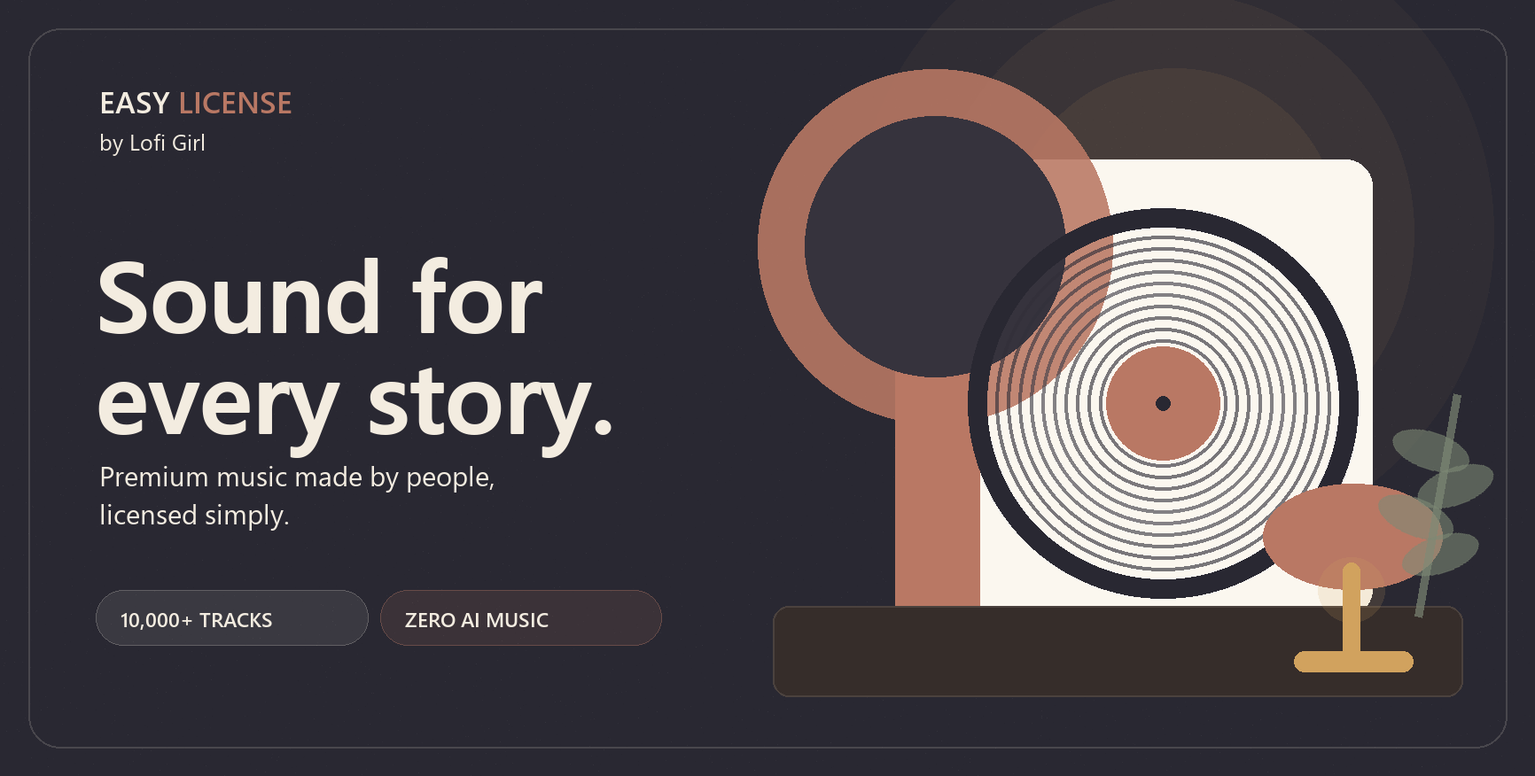
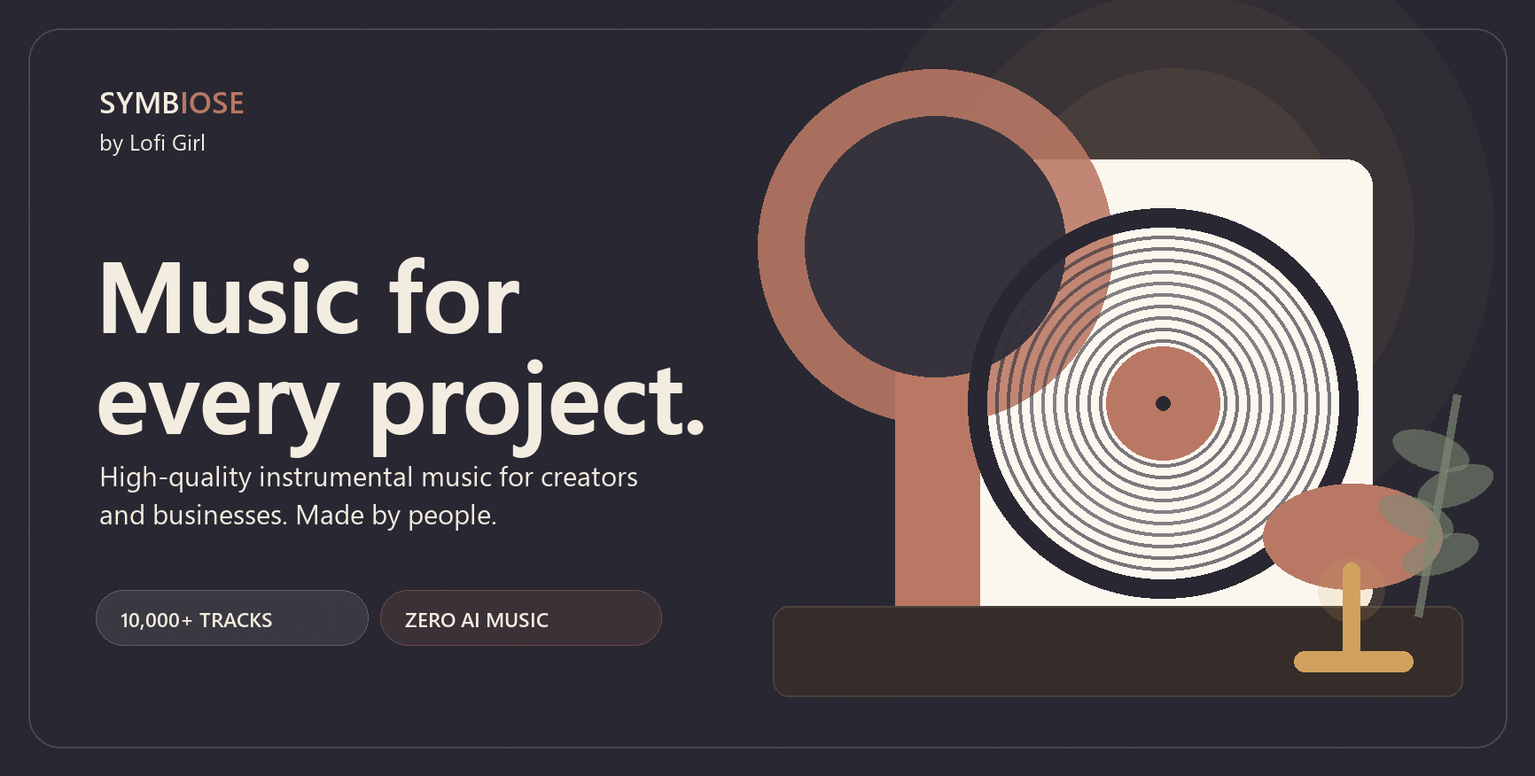
feat: rebrand Easy License as Symbiose

Changed region(s): [[0.0624, 0.4623, 0.4677, 0.6781], [0.0624, 0.3082, 0.343, 0.4315], [0.0624, 0.0925, 0.1871, 0.1541]]

diff --git a/app/sync/page.tsx b/app/sync/page.tsx
@@ -2,8 +2,8 @@ import type { Metadata } from "next";
 import { LeadForm } from "../components/LeadForm";
 import { PublicShell } from "../components/PublicShell";
 
-export const metadata: Metadata = { title: "Easy License for Business — Sync & custom music", description: "License existing music or commission original music for your production." };
+export const metadata: Metadata = { title: "Commercial Sync & Custom Music", description: "License existing music or commission original music for your production with Symbiose." };
 
 export default function SyncPage() {
-  return <PublicShell><section className="page-hero section-shell sync-page-hero"><div className="page-hero-copy"><span className="eyebrow sync-eyebrow"><span>EL/02</span> Brands · Productions · Agencies</span><h1>One brief.<br /><em>Two music paths.</em></h1><p>Clear an existing track or commission original music from real artists. One licensing team helps shape the right scope.</p><div className="hero-proof"><span><i>✓</i> Existing catalogue</span><span><i>✓</i> Original composition</span><span><i>✓</i> Rights support</span></div></div><div className="sync-hero-card"><div className="sync-brief-top"><span>PROJECT BRIEF</span><i>01 / 04</i></div><strong>What are you making?</strong><div className="brief-options"><span className="is-active">Advertising</span><span>Film / series</span><span>Game</span><span>Podcast</span><span>Event</span><span>Other</span></div><div className="brief-progress"><i /></div><small>Prototype of the guided briefing flow</small></div></section><section className="section section-shell sync-path-section"><div className="section-heading centered"><span className="section-kicker">CHOOSE THE RIGHT PATH</span><h2>Start with the project,<br />not the catalogue.</h2></div><div className="sync-path-grid"><article className="existing-path"><span className="path-number">01</span><div className="path-icon">CAT</div><span className="availability available sync"><i /> Sync licensing</span><h3>License existing music</h3><p>For a specific track, mood or artist already in the eligible catalogue.</p><ul><li><i>✓</i> Creative search and shortlist</li><li><i>✓</i> Rights scope by media, territory and term</li><li><i>✓</i> Agreement and delivery in one project</li></ul><div className="path-example"><small>GOOD FOR</small><span>Campaigns</span><span>Films</span><span>Games</span><span>Trailers</span></div></article><article className="custom-path"><span className="path-number">02</span><div className="path-icon">NEW</div><span className="availability available custom"><i /> Original music</span><h3>Commission custom music</h3><p>For a sound that must be unmistakably yours, made by human artists.</p><ul><li><i>✓</i> Original composition and production</li><li><i>✓</i> Sonic identity and modular assets</li><li><i>✓</i> Creative direction through final delivery</li></ul><div className="path-example"><small>GOOD FOR</small><span>Brand identity</span><span>Podcasts</span><span>Events</span><span>Products</span></div></article></div></section><section className="section section-shell sync-process"><div className="split-heading"><div><span className="section-kicker">A CLEAR COMMERCIAL WORKFLOW</span><h2>Creative enough for music.<br />Structured enough for rights.</h2></div><p>A brief or shortlist never grants rights. The licence starts only after scope approval, signature and payment.</p></div><div className="process-line"><article><span>1</span><h3>Brief</h3><p>Project, mood, media, markets, timing and budget.</p></article><i /><article><span>2</span><h3>Music path</h3><p>Existing catalogue search or original creation route.</p></article><i /><article><span>3</span><h3>Scope & quote</h3><p>Rights, term, territory, exclusivity and deliverables.</p></article><i /><article><span>4</span><h3>Agreement</h3><p>Signed scope, payment and final licensed assets.</p></article></div></section><section className="section section-shell brief-section" id="brief"><div className="brief-copy"><span className="section-kicker">START A PROJECT</span><h2>Tell us what<br />you&apos;re making.</h2><p>You do not need to know the right licence yet. Give us the context and the team can qualify the path.</p><div className="brief-contact-notes"><span><i>1</i><p><strong>We review the brief</strong><small>Creative and licensing fit</small></p></span><span><i>2</i><p><strong>We clarify the scope</strong><small>Media, markets and timing</small></p></span><span><i>3</i><p><strong>You get a next step</strong><small>Shortlist, creative route or quote</small></p></span></div></div><div className="form-panel"><div className="form-panel-head"><span>COMMERCIAL MUSIC BRIEF</span><small>Usually reviewed within 2 business days</small></div><LeadForm type="sync" /></div></section></PublicShell>;
+  return <PublicShell><section className="page-hero section-shell sync-page-hero"><div className="page-hero-copy"><span className="eyebrow sync-eyebrow"><span>SY/02</span> Brands · Productions · Agencies</span><h1>One brief.<br /><em>Two music paths.</em></h1><p>Clear an existing track or commission original music from real artists. One licensing team helps shape the right scope.</p><div className="hero-proof"><span><i>✓</i> Existing catalogue</span><span><i>✓</i> Original composition</span><span><i>✓</i> Rights support</span></div></div><div className="sync-hero-card"><div className="sync-brief-top"><span>PROJECT BRIEF</span><i>01 / 04</i></div><strong>What are you making?</strong><div className="brief-options"><span className="is-active">Advertising</span><span>Film / series</span><span>Game</span><span>Podcast</span><span>Event</span><span>Other</span></div><div className="brief-progress"><i /></div><small>Prototype of the guided briefing flow</small></div></section><section className="section section-shell sync-path-section"><div className="section-heading centered"><span className="section-kicker">CHOOSE THE RIGHT PATH</span><h2>Start with the project,<br />not the catalogue.</h2></div><div className="sync-path-grid"><article className="existing-path"><span className="path-number">01</span><div className="path-icon">CAT</div><span className="availability available sync"><i /> Sync licensing</span><h3>License existing music</h3><p>For a specific track, mood or artist already in the eligible catalogue.</p><ul><li><i>✓</i> Creative search and shortlist</li><li><i>✓</i> Rights scope by media, territory and term</li><li><i>✓</i> Agreement and delivery in one project</li></ul><div className="path-example"><small>GOOD FOR</small><span>Campaigns</span><span>Films</span><span>Games</span><span>Trailers</span></div></article><article className="custom-path"><span className="path-number">02</span><div className="path-icon">NEW</div><span className="availability available custom"><i /> Original music</span><h3>Commission custom music</h3><p>For a sound that must be unmistakably yours, made by human artists.</p><ul><li><i>✓</i> Original composition and production</li><li><i>✓</i> Sonic identity and modular assets</li><li><i>✓</i> Creative direction through final delivery</li></ul><div className="path-example"><small>GOOD FOR</small><span>Brand identity</span><span>Podcasts</span><span>Events</span><span>Products</span></div></article></div></section><section className="section section-shell sync-process"><div className="split-heading"><div><span className="section-kicker">A CLEAR COMMERCIAL WORKFLOW</span><h2>Creative enough for music.<br />Structured enough for rights.</h2></div><p>A brief or shortlist never grants rights. The licence starts only after scope approval, signature and payment.</p></div><div className="process-line"><article><span>1</span><h3>Brief</h3><p>Project, mood, media, markets, timing and budget.</p></article><i /><article><span>2</span><h3>Music path</h3><p>Existing catalogue search or original creation route.</p></article><i /><article><span>3</span><h3>Scope & quote</h3><p>Rights, term, territory, exclusivity and deliverables.</p></article><i /><article><span>4</span><h3>Agreement</h3><p>Signed scope, payment and final licensed assets.</p></article></div></section><section className="section section-shell brief-section" id="brief"><div className="brief-copy"><span className="section-kicker">START A PROJECT</span><h2>Tell us what<br />you&apos;re making.</h2><p>You do not need to know the right licence yet. Give us the context and the team can qualify the path.</p><div className="brief-contact-notes"><span><i>1</i><p><strong>We review the brief</strong><small>Creative and licensing fit</small></p></span><span><i>2</i><p><strong>We clarify the scope</strong><small>Media, markets and timing</small></p></span><span><i>3</i><p><strong>You get a next step</strong><small>Shortlist, creative route or quote</small></p></span></div></div><div className="form-panel"><div className="form-panel-head"><span>COMMERCIAL MUSIC BRIEF</span><small>Usually reviewed within 2 business days</small></div><LeadForm type="sync" /></div></section></PublicShell>;
 }

diff --git a/app/components/CreatorWorkspace.tsx b/app/components/CreatorWorkspace.tsx
@@ -61,7 +61,7 @@ function PlaylistCard({ playlist, onOpen }: { playlist: LofiGirlPlaylist; onOpen
 
 function ProductNavigation() {
   return (
-    <div className="music-product-nav" aria-label="Easy License products">
+    <div className="music-product-nav" aria-label="Symbiose products">
       <button className="is-active" type="button"><span>♫</span><strong>Music</strong></button>
       <button type="button" aria-disabled="true"><span>⌁</span><strong>Sound effects</strong><small>Coming soon</small></button>
       <button type="button" aria-disabled="true"><span>◌</span><strong>Voices</strong><small>Coming soon</small></button>
@@ -174,7 +174,7 @@ export function CreatorWorkspace() {
 
       <main className="music-app-main">
         <header className="music-app-topbar">
-          <div><span>Easy License</span><h1>{view === "music" ? "Music library" : navItems.find((item) => item.id === view)?.label}</h1></div>
+          <div><span>Symbiose</span><h1>{view === "music" ? "Music library" : navItems.find((item) => item.id === view)?.label}</h1></div>
           <label className="music-global-search">
             <span aria-hidden="true">⌕</span>
             <input value={query} onChange={(event) => { setQuery(event.target.value); setActiveUse(null); setActivePlaylistId(null); setView("music"); }} placeholder="Search tracks, artists, moods or genres" />
@@ -204,7 +204,7 @@ export function CreatorWorkspace() {
 
             <section className="music-track-browser" aria-labelledby="tracks-title">
               <div className="music-track-browser-head">
-                <div><span>EASY LICENSE CATALOGUE PREVIEW</span><h3 id="tracks-title">{activePlaylist?.title ?? (activeUse ? listeningDirections.find((item) => item.use === activeUse)?.label : "All music")}</h3><p>{visibleTracks.length} matching licensable tracks in this preview</p></div>
+                <div><span>SYMBIOSE CATALOGUE PREVIEW</span><h3 id="tracks-title">{activePlaylist?.title ?? (activeUse ? listeningDirections.find((item) => item.use === activeUse)?.label : "All music")}</h3><p>{visibleTracks.length} matching licensable tracks in this preview</p></div>
                 <div className="music-filter-row">
                   <label><span>Genre</span><select value={genre} onChange={(event) => setGenre(event.target.value)}>{genres.map((item) => <option key={item}>{item}</option>)}</select></label>
                   <label><span>Mood</span><select value={mood} onChange={(event) => setMood(event.target.value)}>{moods.map((item) => <option key={item}>{item}</option>)}</select></label>
@@ -250,7 +250,7 @@ export function CreatorWorkspace() {
       {setupOpen && (
         <div className="music-setup-backdrop" role="dialog" aria-modal="true" aria-labelledby="music-setup-title">
           <div className="music-setup-panel">
-            <div className="music-setup-intro"><span>FIRST LISTEN</span><h2 id="music-setup-title">Tune the library<br />to your work.</h2><p>Two quick choices help Easy License put more useful playlists first. You can change this later.</p><button type="button" onClick={closeSetup}>Skip for now</button></div>
+            <div className="music-setup-intro"><span>FIRST LISTEN</span><h2 id="music-setup-title">Tune the library<br />to your work.</h2><p>Two quick choices help Symbiose put more useful playlists first. You can change this later.</p><button type="button" onClick={closeSetup}>Skip for now</button></div>
             <div className="music-setup-form">
               <section><span>01 · YOUR MAIN ROLE</span><h3>What are you creating as?</h3><div className="music-role-grid">{roles.map((role) => <button className={selectedRole === role ? "is-selected" : ""} type="button" onClick={() => setSelectedRole(role)} key={role}>{role}<i>{selectedRole === role ? "✓" : ""}</i></button>)}</div></section>
               <section><span>02 · WHERE YOU PUBLISH</span><h3>Choose every destination that matters.</h3><div className="music-destination-grid">{destinations.map((destination) => <button className={selectedDestinations.has(destination) ? "is-selected" : ""} type="button" onClick={() => toggleDestination(destination)} key={destination}>{destination}<i>{selectedDestinations.has(destination) ? "✓" : "+"}</i></button>)}</div></section>
@@ -264,7 +264,7 @@ export function CreatorWorkspace() {
 }
 
 function PlaylistLibrary({ onOpen }: { onOpen: (playlist: LofiGirlPlaylist) => void }) {
-  return <div className="music-secondary-view"><header><span>LOFI GIRL LISTENING WORLDS</span><h2>Playlists</h2><p>Eight distinct directions drawn from the public Lofi Girl profile, translated into an Easy License starting point.</p></header><div className="music-secondary-playlists">{lofiGirlPlaylists.map((playlist) => <PlaylistCard playlist={playlist} onOpen={onOpen} key={playlist.id} />)}</div></div>;
+  return <div className="music-secondary-view"><header><span>LOFI GIRL LISTENING WORLDS</span><h2>Playlists</h2><p>Eight distinct directions drawn from the public Lofi Girl profile, translated into a Symbiose starting point.</p></header><div className="music-secondary-playlists">{lofiGirlPlaylists.map((playlist) => <PlaylistCard playlist={playlist} onOpen={onOpen} key={playlist.id} />)}</div></div>;
 }
 
 function DownloadsLibrary({ onOpen }: { onOpen: (track: Track) => void }) {
@@ -276,5 +276,5 @@ function ChannelsView() {
 }
 
 function LicencesView() {
-  return <div className="music-secondary-view"><header><span>ACCOUNT</span><h2>Licences</h2><p>Keep each track, channel and proof of licence in one place.</p></header><section className="music-account-card"><span className="music-account-platform">◇</span><div><strong>Easy License · Creator</strong><small>EL-DEMO-2026-0001 · Active since 03 Aug 2026</small></div><span className="music-account-status">● Active</span><button type="button">View licence</button></section></div>;
+  return <div className="music-secondary-view"><header><span>ACCOUNT</span><h2>Licences</h2><p>Keep each track, channel and proof of licence in one place.</p></header><section className="music-account-card"><span className="music-account-platform">◇</span><div><strong>Symbiose · Creator</strong><small>SY-DEMO-2026-0001 · Active since 03 Aug 2026</small></div><span className="music-account-status">● Active</span><button type="button">View licence</button></section></div>;
 }

diff --git a/app/page.tsx b/app/page.tsx
@@ -67,7 +67,7 @@ export default function Home() {
           <img className="home26-hero-image" src="/images/unsplash/hero-producer.jpg" alt="Music producer working at a recording console" />
           <span className="home26-hero-wash" aria-hidden="true" />
           <div className="home26-hero-copy" data-reveal="left">
-            <p className="home26-eyebrow">Powered by Lofi Girl · Human-made music licensing</p>
+            <p className="home26-eyebrow">Symbiose · Powered by Lofi Girl</p>
             <h1 data-reveal="hero-title">Human-made music for videos, streams and commercial projects.</h1>
             <p className="home26-hero-lede">
               Browse more than 10,000 instrumental and background tracks created by real artists, with no generative AI. Find a sound that fits the story, the stream or the project you are building.
@@ -82,7 +82,7 @@ export default function Home() {
           <p className="home26-hero-credit">A catalogue made by artists, for the people making the work.</p>
         </section>
 
-        <section className="home26-facts" aria-label="Easy License catalogue facts" data-reveal="group">
+        <section className="home26-facts" aria-label="Symbiose catalogue facts" data-reveal="group">
           <div><strong>10,000+</strong><span>instrumental and background tracks</span></div>
           <div><strong>1,000+</strong><span>artists represented worldwide</span></div>
           <div><strong>0</strong><span>AI-generated tracks accepted</span></div>
@@ -126,7 +126,7 @@ export default function Home() {
             <h2 id="home26-artists-title">More than 1,000 artists contribute to the catalogue.</h2>
             <p>Every track is written and produced by artists. Generative AI music is not accepted, artists remain clearly credited, and licensing income is paid directly and fairly.</p>
           </div>
-          <div className="home26-artist-grid" data-reveal="group" aria-label="A selection of Easy License artists and studio sessions">
+          <div className="home26-artist-grid" data-reveal="group" aria-label="A selection of Symbiose artists and studio sessions">
             {artists.map((artist) => (
               <article key={artist.name}>
                 <img src={artist.image} alt={`Portrait of ${artist.name}`} />
@@ -145,9 +145,9 @@ export default function Home() {
           <div className="home26-faq-list" data-reveal="group">
             <details open><summary>Can I listen before creating an account?<span>+</span></summary><p>Yes. You can browse the catalogue and listen to the available previews before choosing a creator plan or requesting a business licence.</p></details>
             <details><summary>Which platforms can I connect?<span>+</span></summary><p>Creator plans are intended for eligible YouTube, Twitch, podcast and social profiles. The exact number of connected profiles depends on the plan.</p></details>
-            <details><summary>Does a Creator plan cover paid advertising?<span>+</span></summary><p>No. Paid media, brand campaigns, client productions, films and games require Easy License for Businesses.</p></details>
-            <details><summary>Is any catalogue music generated with AI?<span>+</span></summary><p>No. Easy License does not accept generative AI music into the eligible catalogue. Every track is created by artists.</p></details>
-            <details><summary>How are artists paid?<span>+</span></summary><p>Artists are credited and receive direct, fair payment when their music is licensed through Easy License.</p></details>
+            <details><summary>Does a Creator plan cover paid advertising?<span>+</span></summary><p>No. Paid media, brand campaigns, client productions, films and games require Symbiose for Businesses.</p></details>
+            <details><summary>Is any catalogue music generated with AI?<span>+</span></summary><p>No. Symbiose does not accept generative AI music into the eligible catalogue. Every track is created by artists.</p></details>
+            <details><summary>How are artists paid?<span>+</span></summary><p>Artists are credited and receive direct, fair payment when their music is licensed through Symbiose.</p></details>
             <details><summary>What happens to content after I cancel?<span>+</span></summary><p>The final licence terms will explain how content published during an active subscription remains covered and which new uses require an active plan.</p></details>
             <details><summary>Can a business commission an exclusive track?<span>+</span></summary><p>Yes. Custom Commission covers original music created for a brief. Exclusivity, media, territory, term and delivery are agreed for the project.</p></details>
           </div>

diff --git a/app/creators/page.tsx b/app/creators/page.tsx
@@ -5,7 +5,7 @@ import { creatorPlatforms, PlatformLogo } from "../components/PlatformLogo";
 import { PublicShell } from "../components/PublicShell";
 
 export const metadata: Metadata = {
-  title: "Easy License for Creators",
+  title: "For Creators",
   description: "Professionally curated, human-made music for YouTube, livestreams, podcasts and social content.",
 };
 
@@ -22,9 +22,9 @@ export default function CreatorsPage() {
       <div className="offer-landing creators-landing">
         <section className="offer-hero offer-hero-creators">
           <div className="offer-hero-copy" data-reveal="left">
-            <p className="offer-kicker"><span>EL / CREATORS</span> Powered by Lofi Girl</p>
+            <p className="offer-kicker"><span>SYMBIOSE / CREATORS</span> Powered by Lofi Girl</p>
             <h1 data-reveal="hero-title">Music that fits<br /><em>the way you publish.</em></h1>
-            <p>Find instrumental music for the edit, the stream or the opening of a new episode. Easy License is built around your own YouTube, Twitch, podcast and social channels, with the relevant licence record kept alongside every download.</p>
+            <p>Find instrumental music for the edit, the stream or the opening of a new episode. Symbiose is built around your own YouTube, Twitch, podcast and social channels, with the relevant licence record kept alongside every download.</p>
             <div className="offer-actions">
               <Link className="offer-button offer-button-light" href="/catalog">Explore the music <span>↗</span></Link>
               <a className="offer-inline-link offer-inline-light" href="#creator-plans">Discover pricing <span>↓</span></a>
@@ -97,11 +97,11 @@ export default function CreatorsPage() {
         </section>
 
         <section className="offer-human offer-human-creators" aria-labelledby="creator-human-title">
-          <figure data-reveal="scale"><img src="/artists/charlee.jpg" alt="Charlee, an Easy License artist, playing guitar" /></figure>
+          <figure data-reveal="scale"><img src="/artists/charlee.jpg" alt="Charlee, a Symbiose artist, playing guitar" /></figure>
           <div data-reveal="right">
             <p className="offer-kicker"><span>06</span> Artists and payments</p>
             <h2 id="creator-human-title">More than 1,000 artists<br />contribute to the catalogue.</h2>
-            <p>Every track is created by a real artist, and no generative AI is used in the music catalogue. Artists are credited and paid directly and fairly when their music is licensed through Easy License.</p>
+            <p>Every track is created by a real artist, and no generative AI is used in the music catalogue. Artists are credited and paid directly and fairly when their music is licensed through Symbiose.</p>
           </div>
         </section>
 
@@ -111,7 +111,7 @@ export default function CreatorsPage() {
             <details open><summary>Can I use the music in videos and livestreams?<span>+</span></summary><p>Yes. Eligible music can cover your own supported videos, livestreams, podcasts and social content.</p></details>
             <details><summary>Can I browse the catalogue before choosing?<span>+</span></summary><p>Yes. You can search the library and listen to the available tracks and playlists before choosing a licence.</p></details>
             <details><summary>What if I receive a Content ID claim?<span>+</span></summary><p>Automated claims can still happen. Your workspace keeps the relevant track and licence information ready for support.</p></details>
-            <details><summary>Does this cover commercial campaigns?<span>+</span></summary><p>No. Paid advertising, brand campaigns, films, games and broader commercial uses need Easy License for Business.</p></details>
+            <details><summary>Does this cover commercial campaigns?<span>+</span></summary><p>No. Paid advertising, brand campaigns, films, games and broader commercial uses need Symbiose for Business.</p></details>
           </div>
         </section>
 

diff --git a/app/components/AdminWorkspace.tsx b/app/components/AdminWorkspace.tsx
@@ -49,13 +49,13 @@ export function AdminWorkspace() {
     <DashboardShell area="admin" items={items} active={active} onChange={setActive}>
       <header className="dashboard-topbar">
         <div>
-          <span className="dashboard-overline">Easy License CMS</span>
+          <span className="dashboard-overline">Symbiose CMS</span>
           <h1>{items.find((item) => item.id === active)?.label}</h1>
         </div>
         <div className="dashboard-top-actions">
           <span className="demo-data-pill"><i /> Demo data</span>
           <button className="notification-button" type="button" aria-label="Notifications">◌<span>4</span></button>
-          <div className="dashboard-user"><span className="user-avatar admin-avatar">EL</span><span><strong>Licensing team</strong><small>Administrator</small></span></div>
+          <div className="dashboard-user"><span className="user-avatar admin-avatar">SY</span><span><strong>Licensing team</strong><small>Administrator</small></span></div>
         </div>
       </header>
 
@@ -90,7 +90,7 @@ export function AdminWorkspace() {
 
             <div className="dashboard-three-columns">
               <section className="dashboard-panel health-panel"><div className="panel-heading"><div><span>CATALOGUE HEALTH</span><h3>Rights readiness</h3></div><span className="status-pill status-live"><i /> Healthy</span></div><div className="health-ring"><div><strong>82%</strong><span>ready</span></div></div><div className="health-legend"><span><i className="ready" />Eligible <strong>6,560</strong></span><span><i className="review" />Review <strong>1,040</strong></span><span><i className="blocked" />Blocked <strong>400</strong></span></div><button type="button" onClick={() => setActive("catalogue")}>Open catalogue →</button></section>
-              <section className="dashboard-panel activity-panel"><div className="panel-heading"><div><span>ACTIVITY</span><h3>Live operations</h3></div><span>Today</span></div><ul><li><i className="green" />Licence EL-0284 issued<span>4 min</span></li><li><i className="violet" />New Creator subscriber<span>12 min</span></li><li><i className="amber" />Rights check needs info<span>24 min</span></li><li><i className="blue" />Sync brief received<span>41 min</span></li><li><i className="green" />Channel marked ready<span>1 h</span></li></ul></section>
+              <section className="dashboard-panel activity-panel"><div className="panel-heading"><div><span>ACTIVITY</span><h3>Live operations</h3></div><span>Today</span></div><ul><li><i className="green" />Licence SY-0284 issued<span>4 min</span></li><li><i className="violet" />New Creator subscriber<span>12 min</span></li><li><i className="amber" />Rights check needs info<span>24 min</span></li><li><i className="blue" />Sync brief received<span>41 min</span></li><li><i className="green" />Channel marked ready<span>1 h</span></li></ul></section>
               <section className="dashboard-panel launch-panel"><div className="panel-heading"><div><span>LAUNCH READINESS</span><h3>Production checklist</h3></div><strong>5 / 9</strong></div><div className="launch-progress"><i /></div><ul><li className="done"><i>✓</i>Product prototype</li><li className="done"><i>✓</i>Creator pricing</li><li className="done"><i>✓</i>Sync intake</li><li><i>4</i>Final licence terms</li><li><i>5</i>Content ID architecture</li></ul></section>
             </div>
           </>

diff --git a/app/business/page.tsx b/app/business/page.tsx
@@ -4,7 +4,7 @@ import { LeadForm } from "../components/LeadForm";
 import { PublicShell } from "../components/PublicShell";
 
 export const metadata: Metadata = {
-  title: "Easy License for Business",
+  title: "For Businesses",
   description: "Human-made music licensing and original composition for commercial projects, with music for physical spaces coming soon.",
 };
 
@@ -14,7 +14,7 @@ export default function BusinessPage() {
       <div className="offer-landing business-landing">
         <section className="offer-hero offer-hero-business">
           <div className="offer-hero-copy" data-reveal="left">
-            <p className="offer-kicker"><span>EL / BUSINESS</span> Powered by Lofi Girl</p>
+            <p className="offer-kicker"><span>SYMBIOSE / BUSINESS</span> Powered by Lofi Girl</p>
             <h1 data-reveal="hero-title">Music with the rights<br /><em>your project actually needs.</em></h1>
             <p>Every Business licence is quoted around the actual project. Tell us what you are making and we will help choose the right route: clear an existing track or commission something original, with the rights shaped around the media, territories, term and exclusivity.</p>
             <div className="offer-actions">
@@ -45,7 +45,7 @@ export default function BusinessPage() {
 
         <section className="business-options" id="business-options" aria-labelledby="business-options-title">
           <div className="offer-section-head" data-reveal="group">
-            <p className="offer-kicker"><span>02</span> Easy License for Business</p>
+            <p className="offer-kicker"><span>02</span> Symbiose for Business</p>
             <h2 id="business-options-title">Choose the service that matches your project.</h2>
             <p>Commercial Sync licenses an existing track for a defined use. Custom Commission creates original music for the brief. Music for Retail will cover licensed background music in physical spaces when the service launches.</p>
           </div>
@@ -94,11 +94,11 @@ export default function BusinessPage() {
         </section>
 
         <section className="offer-human offer-human-business" aria-labelledby="business-human-title">
-          <figure data-reveal="scale"><img src="/artists/meadow.jpg" alt="Portrait of Easy License artist M e a d o w" /></figure>
+          <figure data-reveal="scale"><img src="/artists/meadow.jpg" alt="Portrait of Symbiose artist M e a d o w" /></figure>
           <div data-reveal="right">
             <p className="offer-kicker"><span>05</span> Artists and music team</p>
             <h2 id="business-human-title">More than 1,000 artists<br />contribute to the catalogue.</h2>
-            <p>Every track is created by a real artist, and no generative AI is used in the music catalogue. Our music team selects work for composition, production quality and suitability for commercial use. Artists are credited and paid directly and fairly when their music is licensed through Easy License.</p>
+            <p>Every track is created by a real artist, and no generative AI is used in the music catalogue. Our music team selects work for composition, production quality and suitability for commercial use. Artists are credited and paid directly and fairly when their music is licensed through Symbiose.</p>
           </div>
         </section>
 

diff --git a/app/layout.tsx b/app/layout.tsx
@@ -11,25 +11,25 @@ import "./home-v26.css";
 export const metadata: Metadata = {
   metadataBase: new URL("https://dim75017.github.io/easy-license-platform/"),
   title: {
-    default: "Easy License — Human-made music licensing",
-    template: "%s — Easy License",
+    default: "Symbiose — High-quality instrumental music for creators and businesses",
+    template: "%s — Symbiose",
   },
-  description: "Browse more than 10,000 human-made instrumental and background tracks for videos, streams and commercial projects. Professionally curated and powered by Lofi Girl.",
-  applicationName: "Easy License",
+  description: "High-quality instrumental music for creators and businesses. Browse more than 10,000 human-made tracks for videos, streams and commercial projects.",
+  applicationName: "Symbiose",
   keywords: ["music licensing", "background music", "instrumental music", "human-made music", "creator music", "sync licensing", "Lofi Girl"],
   robots: { index: true, follow: true },
   openGraph: {
     type: "website",
     url: "https://dim75017.github.io/easy-license-platform/",
-    siteName: "Easy License",
-    title: "10,000+ human-made tracks. Zero AI-generated music.",
-    description: "10,000+ human-made tracks selected by music professionals for quality, consistency and real-world use. For creators and businesses.",
-    images: [{ url: "https://dim75017.github.io/easy-license-platform/og.png", width: 1732, height: 876, alt: "Easy License premium human-made music catalogue" }],
+    siteName: "Symbiose",
+    title: "Symbiose — High-quality instrumental music",
+    description: "More than 10,000 human-made instrumental tracks for creators and businesses. Zero AI-generated music.",
+    images: [{ url: "https://dim75017.github.io/easy-license-platform/og.png", width: 1732, height: 876, alt: "Symbiose high-quality human-made instrumental music catalogue" }],
   },
   twitter: {
     card: "summary_large_image",
-    title: "10,000+ human-made tracks. Zero AI-generated music.",
-    description: "Professionally curated instrumental and background music for creators and businesses. Real artists, credited and paid directly.",
+    title: "Symbiose — High-quality instrumental music",
+    description: "Human-made instrumental music for creators and businesses. Real artists, credited and paid directly.",
     images: ["https://dim75017.github.io/easy-license-platform/og.png"],
   },
 };

diff --git a/app/components/PricingCards.tsx b/app/components/PricingCards.tsx
@@ -16,7 +16,7 @@ export function PricingCards({ expanded = false }: { expanded?: boolean }) {
       </div>
       <div className={expanded ? "pricing-grid pricing-grid-expanded" : "pricing-grid"}>
         <article className="price-card" data-pointer-glow="">
-          <span className="plan-code">EL–01 / CREATOR</span>
+          <span className="plan-code">SY–01 / CREATOR</span>
           <div className="price-card-top">
             <span className="plan-icon plan-creator">C</span>
             <div><p>Creator</p><span>For your own content</span></div>
@@ -38,7 +38,7 @@ export function PricingCards({ expanded = false }: { expanded?: boolean }) {
 
         <article className="price-card price-card-featured" data-pointer-glow="">
           <span className="popular-pill">Recommended scope</span>
-          <span className="plan-code">EL–02 / PRO</span>
+          <span className="plan-code">SY–02 / PRO</span>
           <div className="price-card-top">
             <span className="plan-icon plan-pro">P</span>
             <div><p>Pro</p><span>For multi-channel creators</span></div>
@@ -55,7 +55,7 @@ export function PricingCards({ expanded = false }: { expanded?: boolean }) {
             {expanded && <li><i>✓</i> Centralised downloads and licences</li>}
           </ul>
           <Link className="button button-light button-full" href="/app">License my channels</Link>
-          <p className="fine-print">For creator teams and multi-channel publishers. Commercial campaigns use Easy License for Business.</p>
+          <p className="fine-print">For creator teams and multi-channel publishers. Commercial campaigns use Symbiose for Business.</p>
         </article>
 
       </div>

diff --git a/app/pricing/page.tsx b/app/pricing/page.tsx
@@ -7,7 +7,7 @@ import "../pricing-v39.css";
 
 export const metadata: Metadata = {
   title: "Pricing",
-  description: "Creator subscriptions and business music licensing from Easy License.",
+  description: "Creator subscriptions and business music licensing from Symbiose.",
 };
 
 const comparison = [
@@ -42,7 +42,7 @@ const pricingFaq = [
   },
   {
     question: "Is the catalogue made with generative AI?",
-    answer: "No. Easy License only accepts music written and produced by artists. Generative AI music is not accepted into the catalogue.",
+    answer: "No. Symbiose only accepts music written and produced by artists. Generative AI music is not accepted into the catalogue.",
   },
 ];
 
@@ -52,7 +52,7 @@ export default function PricingPage() {
       <div className="pricing-v39">
       <section className="pricing-v39-hero">
         <div className="page-hero-copy centered">
-          <span className="pricing-v39-kicker">EASY LICENSE PRICING</span>
+          <span className="pricing-v39-kicker">SYMBIOSE PRICING</span>
           <h1>Simple plans for<br />the way you publish.</h1>
           <p>Creator subscriptions are clear from the start. Business projects are quoted around the rights they actually need.</p>
         </div>

diff --git a/app/retail/page.tsx b/app/retail/page.tsx
@@ -49,7 +49,7 @@ export default function RetailPage() {
         <section className="retail-v2-spaces" data-reveal="group">
           <figure className="retail-v2-space-large"><img src="/images/unsplash/retail/restaurant.jpg" alt="Warm restaurant interior at night" /><figcaption>Restaurants & cafés</figcaption></figure>
           <figure><img src="/images/unsplash/retail/hotel.jpg" alt="Warm modern hotel lobby" /><figcaption>Hotels & hospitality</figcaption></figure>
-          <div className="retail-v2-space-copy"><p className="retail-v2-kicker"><span>02</span> Made for the room</p><h2>From first coffee to last guest.</h2><p>Every space has its own rhythm. Easy License helps make it intentional, whether people are stopping by, staying a while or coming back tomorrow.</p></div>
+          <div className="retail-v2-space-copy"><p className="retail-v2-kicker"><span>02</span> Made for the room</p><h2>From first coffee to last guest.</h2><p>Every space has its own rhythm. Symbiose helps make it intentional, whether people are stopping by, staying a while or coming back tomorrow.</p></div>
         </section>
 
         <section className="retail-v2-artists">

diff --git a/app/components/HeroProductMockup.tsx b/app/components/HeroProductMockup.tsx
@@ -2,7 +2,7 @@ const waveform = [26, 42, 18, 58, 34, 72, 48, 84, 40, 66, 30, 54, 76, 38, 62, 24
 
 export function HeroProductMockup() {
   return (
-    <div className="hero-product" aria-label="Easy License product preview" data-reveal="hero-product" data-parallax="24" data-tilt>
+    <div className="hero-product" aria-label="Symbiose product preview" data-reveal="hero-product" data-parallax="24" data-tilt>
       <div className="hero-product-glow" />
       <div className="product-window">
         <div className="product-window-top">
@@ -14,7 +14,7 @@ export function HeroProductMockup() {
         </div>
         <div className="product-window-body">
           <aside className="mock-sidebar" aria-hidden="true">
-            <span className="mock-logo">e</span>
+            <span className="mock-logo">s</span>
             <span className="mock-side-line is-active" />
             <span className="mock-side-line" />
             <span className="mock-side-line" />

diff --git a/app/components/LicenseBooth.tsx b/app/components/LicenseBooth.tsx
@@ -54,7 +54,7 @@ export function LicenseBooth() {
   return (
     <div className={`v5-booth v5-booth-${selected.color}`} data-pointer-glow="">
       <div className="v5-booth-topline">
-        <span>Easy License · by Lofi Girl</span>
+        <span>Symbiose · by Lofi Girl</span>
         <span className="v5-live"><i /> Live prototype</span>
       </div>
 
@@ -75,9 +75,9 @@ export function LicenseBooth() {
       </div>
 
       <div className="v5-booth-track">
-        <div className="v5-booth-art" aria-hidden="true"><span>EL</span><i /></div>
+        <div className="v5-booth-art" aria-hidden="true"><span>SY</span><i /></div>
         <div>
-          <small>TRACK / EL-CAT-0041</small>
+          <small>TRACK / SY-CAT-0041</small>
           <strong>Cloudlines</strong>
           <span>Charlee Nguyen · 02:42</span>
         </div>
